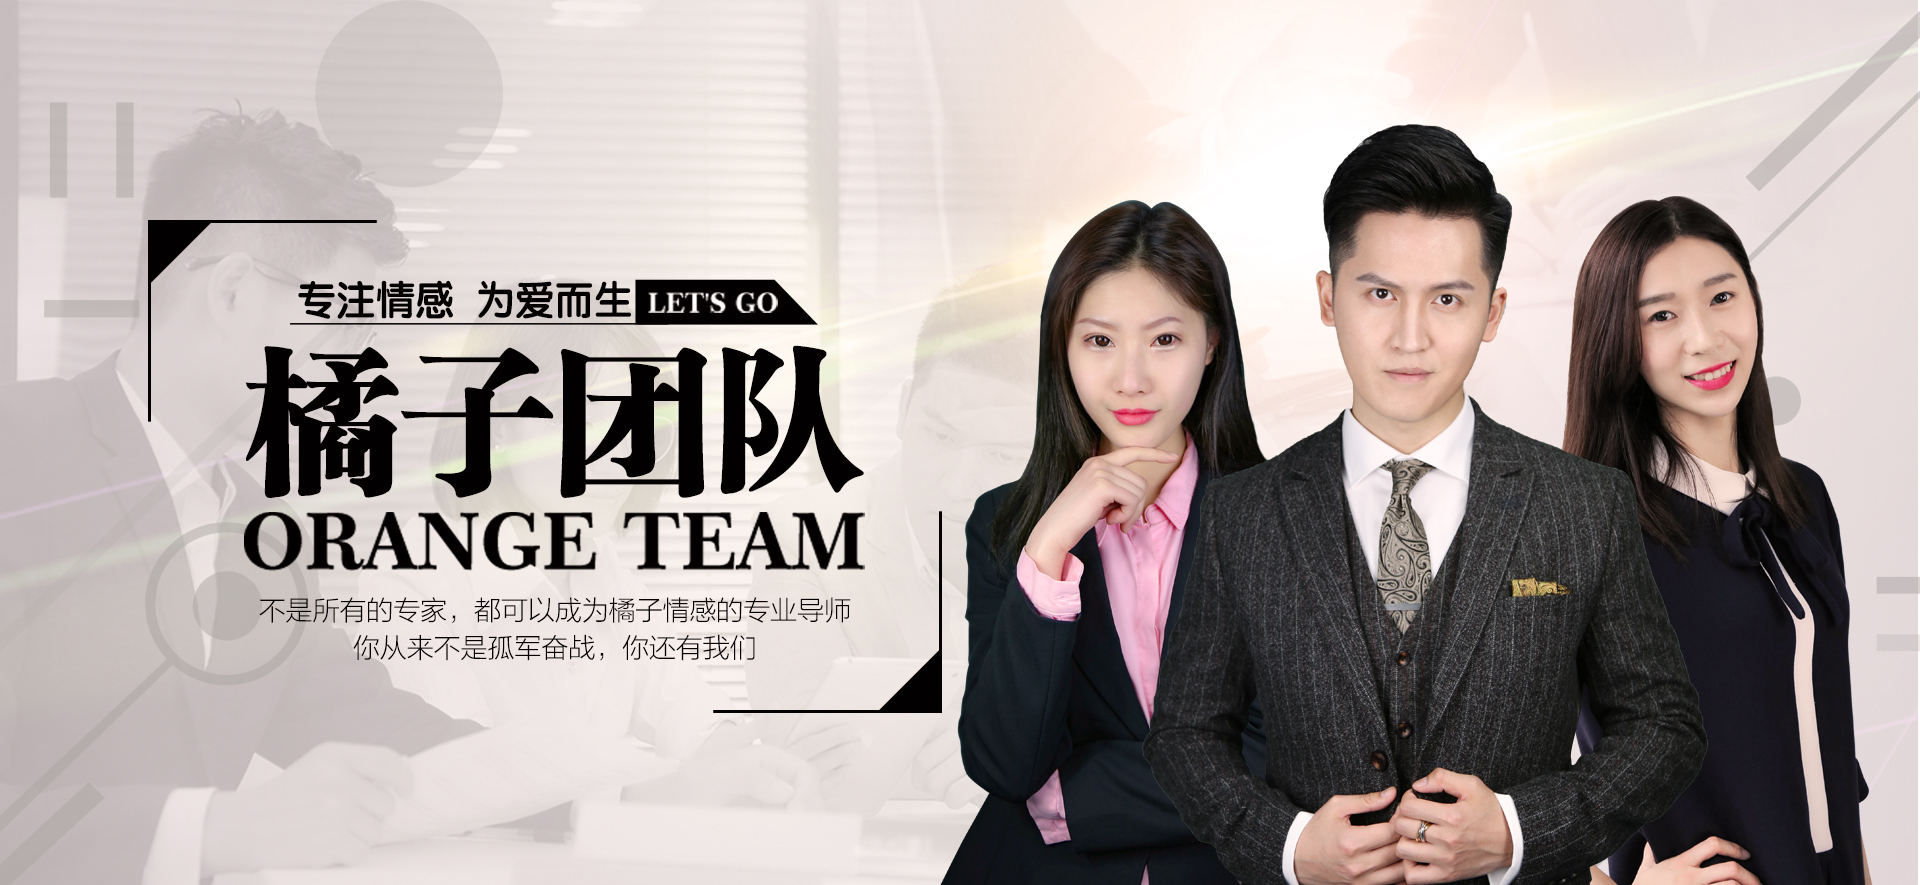
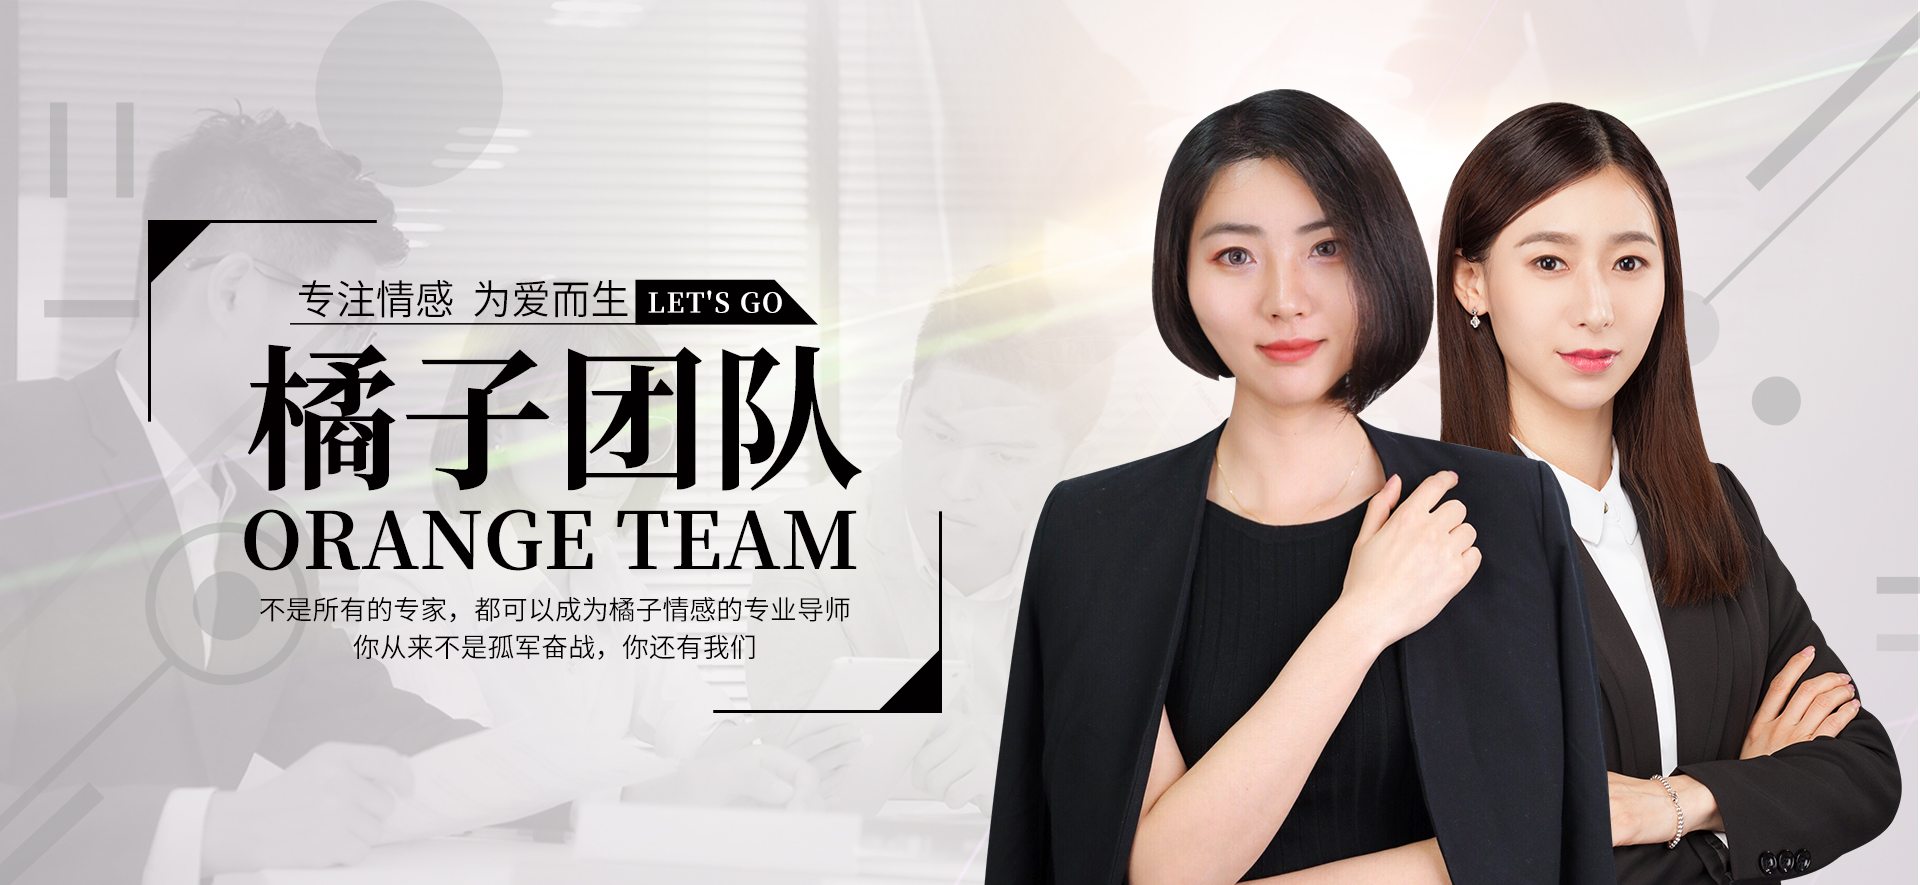
更新权威专家图片、文字;

diff --git a/focus-team.html b/focus-team.html
@@ -266,7 +266,7 @@
 									<div class="txt">
 										<div class="name mentorName mentor001">嘉伟</div>
 										<p class="des">
-										橘子情感创始人，两性情感指导专家
+										狙击挽回实战专家，行为干预资深导师
 										</p>
 										<div class="btn">
 											<button type="button" onclick="window.open('./views/page1.html')">了解详情</button>
